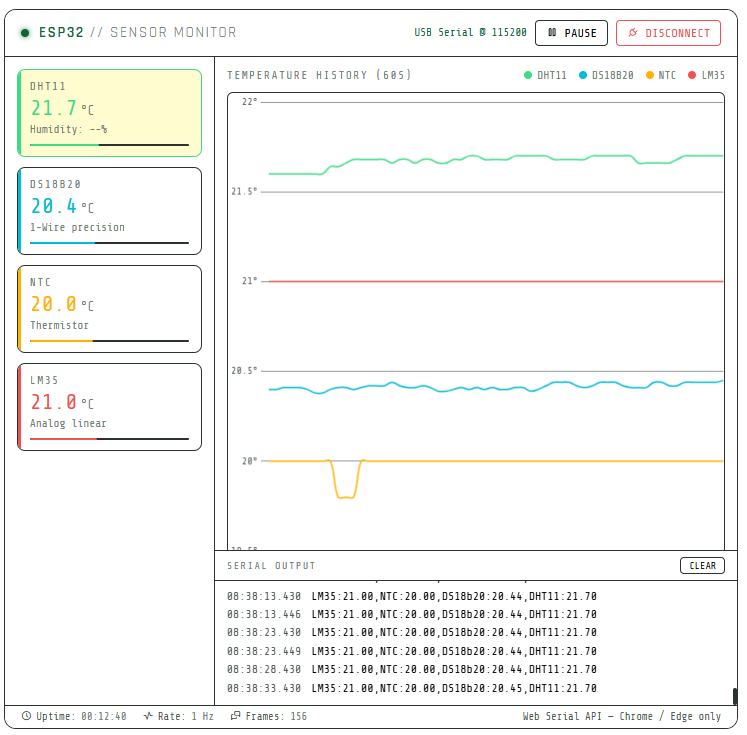
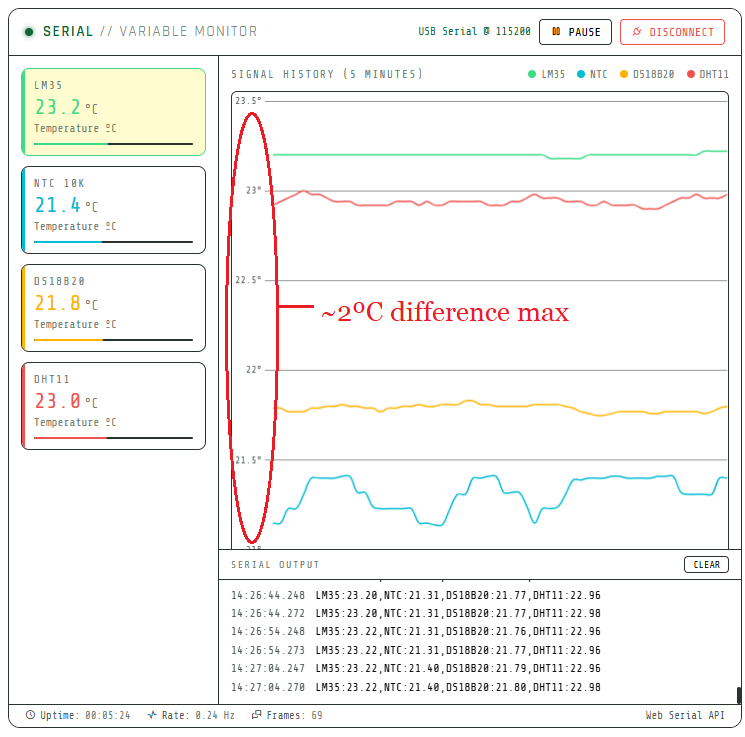
improved visualization, replaced image
improved visualization, replaced image

diff --git a/COM-port-browser-viewer.html b/COM-port-browser-viewer.html
@@ -524,7 +524,7 @@
           buf += decoder.decode(value);
           let nl;
           while ((nl = buf.indexOf('\n')) !== -1) {
-            parseLine(buf.slice(0, nl));
+            parseLine(buf.slice(0, nl).replace('\r', ''));
             buf = buf.slice(nl + 1);
           }
         }
